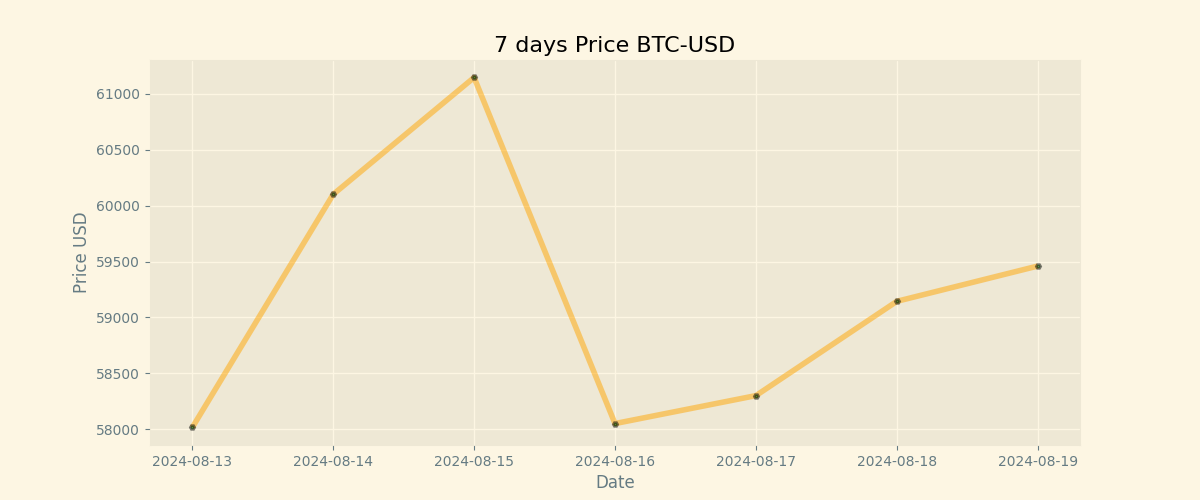
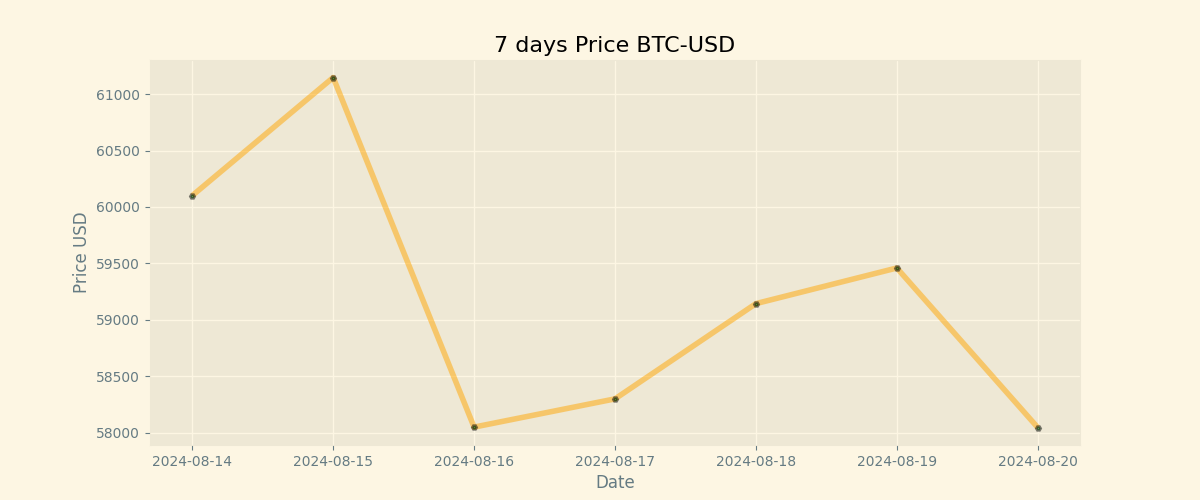
Duty Updates 2024-08-20

diff --git a/README.md b/README.md
@@ -9,8 +9,8 @@
 
 | Currency | Price           |
 | -------- | --------------- |
-| **BTC**  | **$ 59459.89** |
-| **ETH**  | **$ 2600.63** |
+| **BTC**  | **$ 58047.55** |
+| **ETH**  | **$ 2583.49** |
 
 ## BTC chart
 
